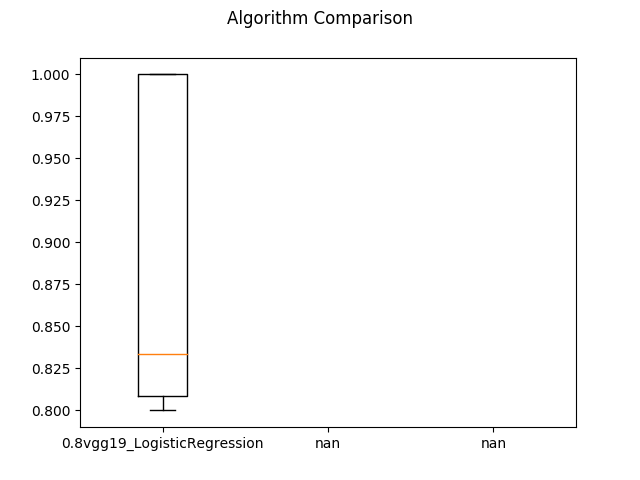
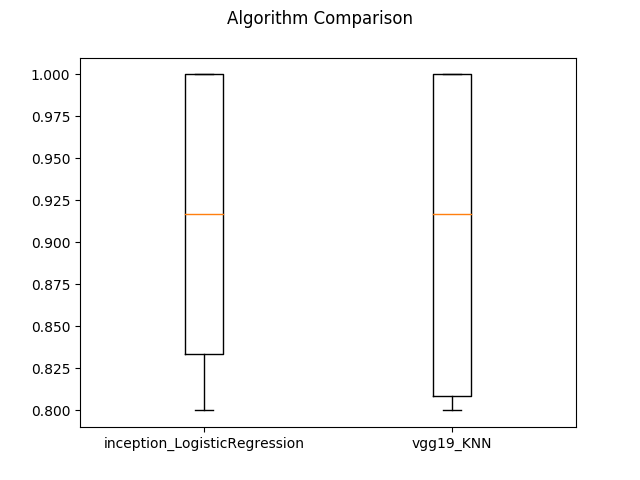
Arreglados los bugs en el análisis estadístico. La ejecución completa del estudio no funciona de momento por que pide archivos que se generan dentro de la propia ejecución del programa.

diff --git a/train.py b/train.py
@@ -18,72 +18,76 @@ import cPickle
 import h5py
 from scipy.stats import randint as sp_randint
 
+
+def train(conf):
+	datasetName = conf["dataset_path"][conf["dataset_path"].rfind("/"):]
+	file = open(conf["output_path"] + datasetName + "/results/bestExtractorClassifier.csv")
+	line =file.read()
+	extractorClassifier = line.split(",")[0]
+	extractor, classifier = extractorClassifier.split("_")
+
+	labelEncoderPath = conf["output_path"]+ datasetName + "/models/le-" + extractor + ".cpickle"
+	#[0:conf["label_encoder_path"].rfind(".")] + "-"+ conf["model"] +".cpickle"
+	le = cPickle.loads(open(labelEncoderPath).read())
+	# open the database and split the data into their respective training and
+	# testing splits
+	print("[INFO] gathering train/test splits...")
+
+	featuresPath = conf["output_path"]+ datasetName + "/models/features-" + extractor + ".hdf5"
+	#conf["features_path"][0:conf["features_path"].rfind(".")] + "-"+ conf["model"] +".hdf5"
+	db = h5py.File(featuresPath)
+	split = int(db["image_ids"].shape[0] * conf["training_size"])
+	(trainData, trainLabels) = (db["features"][:split], db["image_ids"][:split])
+	(testData, testLabels) = (db["features"][split:], db["image_ids"][split:])
+	# use the label encoder to encode the training and testing labels
+	trainLabels = [le.transform([l.split(":")[0]])[0] for l in trainLabels]
+	testLabels = [le.transform([l.split(":")[0]])[0] for l in testLabels]
+	# define the grid of parameters to explore, then start the grid search where
+	# we evaluate a Linear SVM for each value of C
+	print("[INFO] tuning hyperparameters...")
+	#file = open("testfile.text", "r")
+
+	if  classifier== "RandomForest":  #conf["modelClassifier"]
+		param_grid = {"max_depth": [3, None],
+				  "max_features": [1, 3, 10],
+				  "min_samples_leaf": [1, 3, 10],
+				  "bootstrap": [True, False],
+				  "criterion": ["gini", "entropy"]}
+		model = GridSearchCV(RandomForestClassifier(n_estimators=20), param_grid, cv=10)
+	elif classifier == "LogisticRegression": #conf["modelClassifier"]
+		params = {"C": [0.1, 1.0, 10.0, 100.0, 1000.0, 10000.0]}
+		model = GridSearchCV(LogisticRegression(), params, cv=10)
+	elif classifier == "GradientBoost": #conf["modelClassifier"]
+		param_grid = {"max_depth": [3, None],
+				  "max_features": [1, 3, 10],
+				  "min_samples_leaf": [1, 3, 10]}
+		model = GridSearchCV(GradientBoostingClassifier(n_estimators=20), param_grid, cv=10)
+	elif classifier == "KNN": #conf["modelClassifier"]
+		param_grid = {'n_neighbors': range(5, 30,2)}
+		model =  GridSearchCV(KNeighborsClassifier(), param_grid, cv=10)
+	elif classifier == "SVM": #conf["modelClassifier"]
+		param_grid = {'C': [1, 10, 100, 1000], 'kernel': ['linear']},  {'C': [1, 10, 100, 1000], 'gamma': [0.001, 0.0001], 'kernel': ['rbf']}
+		model =  GridSearchCV(SVC(probability=True), param_grid, cv=10)
+	elif classifier == "MLP": #conf["modelClassifier"]
+		param_grid = {'activation':['identity', 'logistic', 'tanh', 'relu'], 'solver':['lbfgs','sgd','adam'],
+				  'alpha': sp_randint(0.0001, 1),'learning_rate':['constant','invscaling','adaptive'],'momentum':[0.9,0.95,0.99]}
+		model = GridSearchCV(MLPClassifier(random_state=84), param_grid, cv=10)
+
+	model.fit(trainData, trainLabels)
+	print("[INFO] best hyperparameters: {}".format(model.best_params_))
+	# dump classifier to file
+	print("[INFO] dumping classifier...")
+	f = open(conf["output_path"] + datasetName + "/classifier" + classifier + ".cpickle", "w")
+	f.write(cPickle.dumps(model))
+
+	f.close()
+	# close the database
+	db.close()
+
 # construct the argument parser and parse the command line arguments
 ap = argparse.ArgumentParser()
 ap.add_argument("-c", "--conf", required=True, help="path to configuration file")
 args = vars(ap.parse_args())
-
 # load the configuration and label encoder
 conf = Conf(args["conf"])
-labelEncoderPath = conf["label_encoder_path"][0:conf["label_encoder_path"].rfind(".")] + "-"+ conf["model"] +".cpickle"
-le = cPickle.loads(open(labelEncoderPath).read())
-
-# open the database and split the data into their respective training and
-# testing splits
-print("[INFO] gathering train/test splits...")
-featuresPath = conf["features_path"][0:conf["features_path"].rfind(".")] + "-"+ conf["model"] +".hdf5"
-db = h5py.File(featuresPath)
-split = int(db["image_ids"].shape[0] * conf["training_size"])
-(trainData, trainLabels) = (db["features"][:split], db["image_ids"][:split])
-(testData, testLabels) = (db["features"][split:], db["image_ids"][split:])
-
-# use the label encoder to encode the training and testing labels
-trainLabels = [le.transform([l.split(":")[0]])[0] for l in trainLabels]
-testLabels = [le.transform([l.split(":")[0]])[0] for l in testLabels]
-
-# define the grid of parameters to explore, then start the grid search where
-# we evaluate a Linear SVM for each value of C
-print("[INFO] tuning hyperparameters...")
-
-
-#file = open(“testfile.text”, “r”)
-
-
-if conf["modelClassifier"] == "RandomForest":
-	param_grid = {"max_depth": [3, None],
-			  "max_features": [1, 3, 10],
-			  "min_samples_leaf": [1, 3, 10],
-			  "bootstrap": [True, False],
-			  "criterion": ["gini", "entropy"]}
-	model = GridSearchCV(RandomForestClassifier(n_estimators=20), param_grid, cv=10)
-elif conf["modelClassifier"] == "LogisticRegression":
-	params = {"C": [0.1, 1.0, 10.0, 100.0, 1000.0, 10000.0]}
-	model = GridSearchCV(LogisticRegression(), params, cv=10)
-elif conf["modelClassifier"] == "GradientBoost":
-	param_grid = {"max_depth": [3, None],
-			  "max_features": [1, 3, 10],
-			  "min_samples_leaf": [1, 3, 10]}
-	model = GridSearchCV(GradientBoostingClassifier(n_estimators=20), param_grid, cv=10)
-elif conf["modelClassifier"] == "KNN":
-	param_grid = {'n_neighbors': range(5, 30,2)}
-	model =  GridSearchCV(KNeighborsClassifier(), param_grid, cv=10)
-elif conf["modelClassifier"] == "SVM":
-	param_grid = {'C': [1, 10, 100, 1000], 'kernel': ['linear']},  {'C': [1, 10, 100, 1000], 'gamma': [0.001, 0.0001], 'kernel': ['rbf']}
-	model =  GridSearchCV(SVC(probability=True), param_grid, cv=10)
-elif conf["modelClassifier"] == "MLP":
-	param_grid = {'activation':['identity', 'logistic', 'tanh', 'relu'], 'solver':['lbfgs','sgd','adam'],
-              'alpha': sp_randint(0.0001, 1),'learning_rate':['constant','invscaling','adaptive'],'momentum':[0.9,0.95,0.99]}
-	model = GridSearchCV(MLPClassifier(random_state=84), param_grid, cv=10)
-
-
-model.fit(trainData, trainLabels)
-print("[INFO] best hyperparameters: {}".format(model.best_params_))
-
-# dump classifier to file
-print("[INFO] dumping classifier...")
-f = open(conf["classifier_path"] + conf["modelClassifiers"] + ".cpickle", "w")
-f.write(cPickle.dumps(model))
-f.close()
-
-# close the database
-db.close()
+train(conf)

diff --git a/StatisticalAnalysis/statisticalAnalysis.py b/StatisticalAnalysis/statisticalAnalysis.py
@@ -50,6 +50,10 @@ def multipleAlgorithmsNonParametric(algorithms,accuracies, file, fileResults,alp
         (Fvalue, pvalue, rankings, pivots) = friedman_test(*accuracies)
     print("F-value: %f, p-value: %s" % (Fvalue, pvalue))
     file.write("F-value: %f, p-value: %s \n" % (Fvalue, pvalue))
+
+    filePath = file.name
+    featureExtractor = filePath[filePath.rfind("_") + 1:filePath.rfind(("."))]
+
     if (pvalue < alpha):
         print("Null hypothesis is rejected; hence, models have different performance")
         file.write("Null hypothesis is rejected; hence, models have different performance \n")
@@ -74,6 +78,10 @@ def multipleAlgorithmsNonParametric(algorithms,accuracies, file, fileResults,alp
 
         print(tabulate(res, headers=['Comparison', 'Zvalue', 'p-value', 'adjusted p-value']))
         file.write(tabulate(res, headers=['Comparison', 'Zvalue', 'p-value', 'adjusted p-value'])+ "\n")
+        fileResults.write(featureExtractor + "_" + winner)
+        for ele in algorithmsDataset[winner]:
+            fileResults.write("," + str(ele))
+        fileResults.write("\n")
         for (c, p) in zip(comparions, adjustedpvalues):
             cohend = abs(cohen_d(algorithmsDataset[winner], algorithmsDataset[c[c.rfind(" ") + 1:]]))
             if (cohend <= 0.2):
@@ -98,10 +106,8 @@ def multipleAlgorithmsNonParametric(algorithms,accuracies, file, fileResults,alp
                 np.mean(algorithmsDataset[c[c.rfind(" ") + 1:]]),
                 np.std(algorithmsDataset[c[c.rfind(" ") + 1:]]),cohend,effectsize))
 
-                fileResults.write(winner)
-                for ele in algorithmsDataset[winner]:
-                    fileResults.write("," + str(ele))
-                fileResults.write("\n")
+
+
 
             else:
                 print("There is a significant difference between the models: %s (mean: %f, std: %f) and %s (mean: %f, std: %f) (Cohen's d=%s, %s)" % (
@@ -116,10 +122,6 @@ def multipleAlgorithmsNonParametric(algorithms,accuracies, file, fileResults,alp
                 c[c.rfind(" ") + 1:],
                 np.mean(algorithmsDataset[c[c.rfind(" ") + 1:]]),
                 np.std(algorithmsDataset[c[c.rfind(" ") + 1:]]),cohend,effectsize))
-
-                fileResults.write(winner)
-                for ele in algorithmsDataset[winner]:
-                    fileResults.write("," + str(ele))
 
     else:
         print("Null hypothesis is accepted; hence, we can't say that there is a significant difference in the performance of the models")
@@ -138,10 +140,10 @@ def multipleAlgorithmsNonParametric(algorithms,accuracies, file, fileResults,alp
         file.write("We take the model with the best mean (%s, mean: %f) and compare it with the other models: \n" % (
         algorithms[means.tolist().index(maximum)], maximum))
 
-        filePath = file.name
-        featureExtractor = filePath[filePath.rfind("_")+1:filePath.rfind(("."))]
         classifier = (algorithms[means.tolist().index(maximum)])
          #f = fileResults   confPath["classifier_path"] + conf["modelClassifiers"]             +filePath[filePath.rfind("_"):filePath.rfind(("."))]
+
+
         fStatistical = open(filePath[:filePath.rfind("/")] + "/kfold-comparison_"+ featureExtractor + ".csv", "r")
         fStatistical.readline()
         for line in fStatistical:

diff --git a/fullAnalysis.py b/fullAnalysis.py
@@ -5,6 +5,9 @@
 from __future__ import print_function
 from mpi4py import MPI
 import warnings
+
+
+
 warnings.simplefilter(action="ignore", category=FutureWarning)
 # import the necessary packages
 from utils.conf import Conf
@@ -26,4 +29,6 @@ conf = Conf(args["conf"])
 imagePaths = list(paths.list_images(conf["dataset_path"]))
 generate_features(conf,imagePaths)
 statisticalComparison(conf)
+import train.train
+train(conf)
 

diff --git a/shallowmodels/classificationModelFactory.py b/shallowmodels/classificationModelFactory.py
@@ -14,7 +14,7 @@ class classificationModelFactory():
             return cM.SVM()
         if modelText == "LogisticRegression":
             return cM.LogRegression()
-        if modelText == "MultiLayerPerceptron":
+        if modelText == "MLP":
             return cM.MultiLayerPerceptron()
         if modelText == "GradientBoost":
             return  cM.GradientBoost()
